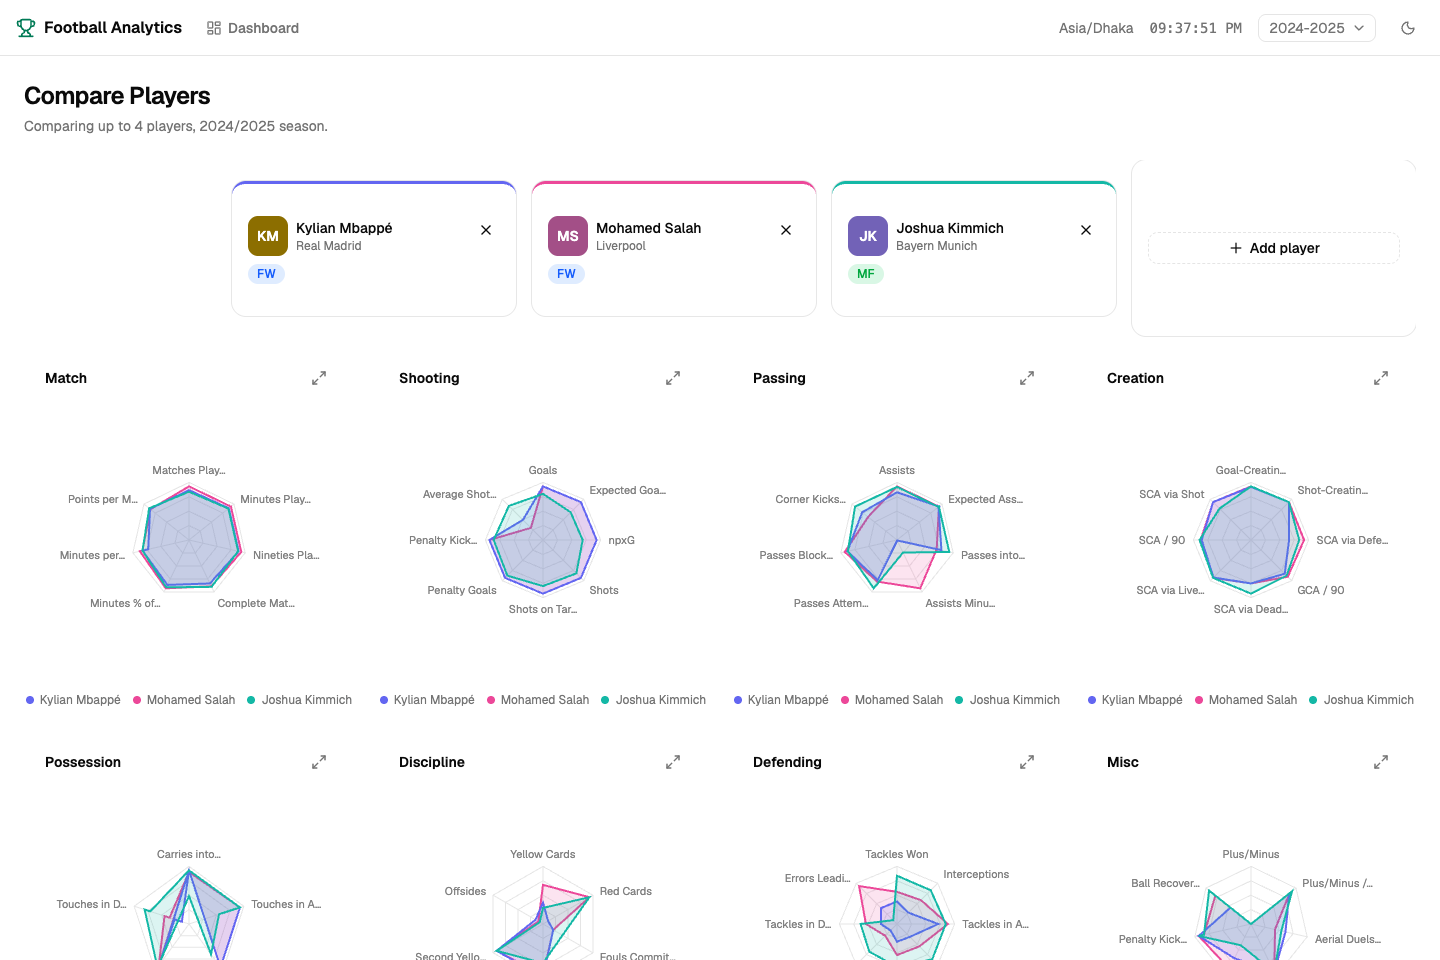
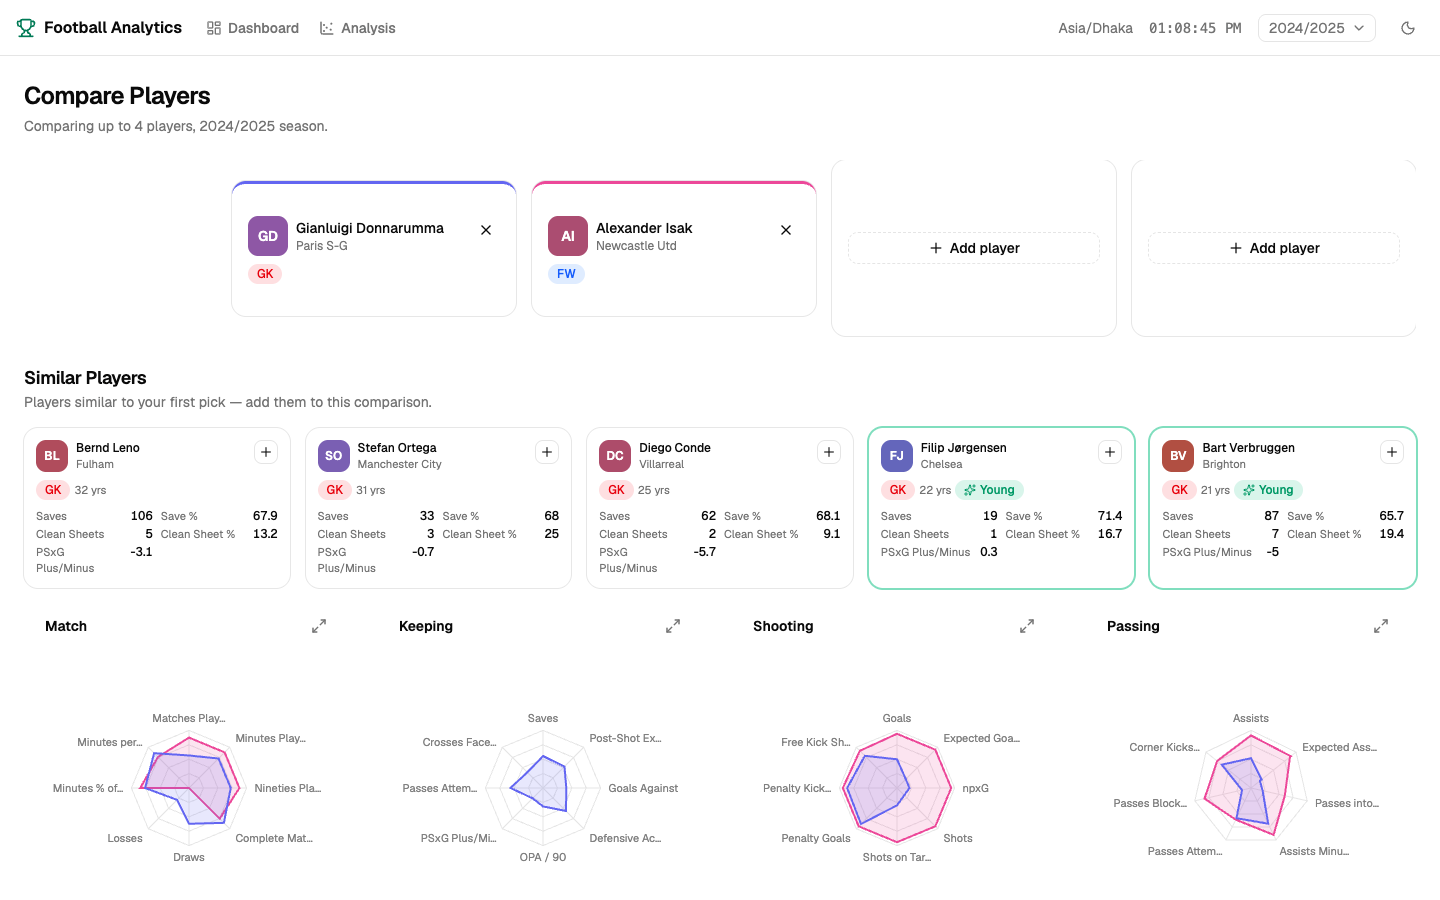
feat: update README with new features including similar players and young talents; enhance screenshot descriptions

diff --git a/README.md b/README.md
@@ -2,8 +2,9 @@
 
 A multi-season (2024-25 and 2025-26) football/soccer player statistics
 explorer — browse teams, players, and countries across the top 5 European
-leagues, compare up to 4 players head-to-head with radar charts, drill into
-9 category leaderboards, explore role-based scatter charts on the Analysis
+leagues, compare up to 4 players head-to-head with radar charts, discover
+similar players and rising young talent on every profile, drill into 9
+category leaderboards, explore role-based scatter charts on the Analysis
 page, and look up every stat's meaning in a built-in glossary. Backend is
 FastAPI + Polars, frontend is React + TanStack Router/Query/Table + shadcn/ui.
 
@@ -13,10 +14,10 @@ FastAPI + Polars, frontend is React + TanStack Router/Query/Table + shadcn/ui.
 
 |                                                                                              |                                                                    |
 | --------------------------------------------------------------------------------------------- | -------------------------------------------------------------------- |
-| ![Dashboard](docs/screenshots/dashboard-1.png)                                               | ![Player detail — radar chart + League Percentile view (dark mode)](docs/screenshots/player-details.png) |
-| ![Compare Players — overlaid radar charts](docs/screenshots/compare.png)                     | ![Team detail](docs/screenshots/team-details.png)                  |
-| ![Leaderboards — index of all 9 categories](docs/screenshots/leaderboards-index.png)         | ![Keeping leaderboard — Per 90 Min view](docs/screenshots/leaderboard.png) |
-| ![Analysis — Top 25 role scatter charts (dark mode)](docs/screenshots/analysis.png)           |                                                                    |
+| ![Dashboard](docs/screenshots/dashboard-1.png)                                               | ![Player detail — radar chart plus a 3x2 grid of the player's own major-stats card and their closest/youngest comps (dark mode)](docs/screenshots/player-details.png) |
+| ![Compare Players — Match-first, position-significant category ordering, with a Similar Players add panel](docs/screenshots/compare.png) | ![Team detail](docs/screenshots/team-details.png)                  |
+| ![Leaderboards — Young Players (23 or under) toggle](docs/screenshots/leaderboards-index.png) | ![Shooting leaderboard — Young Players toggle with Age column](docs/screenshots/leaderboard.png) |
+| ![Analysis — Top 25 role scatter charts, Young Players toggle (dark mode)](docs/screenshots/analysis.png) | ![Stat glossary](docs/screenshots/glossary.png)                    |
 
 ## Features
 
@@ -37,11 +38,24 @@ FastAPI + Polars, frontend is React + TanStack Router/Query/Table + shadcn/ui.
   players), scoring 6-8 curated stats against every other player at that
   position, with a sample-size caption (e.g. "vs. 1,003 other FWs") and an
   expand-to-fullscreen view.
+- **Similar Players & Young Talents** — next to the radar chart, every player
+  detail page lays out a 3x2 grid of position-matched comps: the viewed
+  player's own major-stats card (their top 10 stats for their primary
+  position — Saves leads for keepers, Goals for forwards, and so on) plus the
+  5 closest matches by stat similarity, spanning any age and age-23-or-under
+  specifically (highlighted with a green ring and a "Young" badge rather than
+  a separate section). Each comp card has a one-click icon button through to
+  a head-to-head Compare with the viewed player.
 - **Compare Players** (`/compare`) — pick up to 4 players and see them
-  overlaid on the same radar charts (one per stat category: Match, Shooting,
-  Passing, Creation, Possession, Discipline, Defending, Misc), plus an
-  "Overall" table with Base Stat / League Percentile / Overall Percentile
-  tabs that highlights the better value in green for every stat.
+  overlaid on the same radar charts and an "Overall" table (Base Stat /
+  League Percentile / Overall Percentile tabs, highlighting the better value
+  in green for every stat), both ordered Match first followed by each
+  compared player's signature category — Keeping for a keeper, Shooting for a
+  forward, Defending for a defender, Passing for a midfielder — so the most
+  position-relevant stats surface before the rest. Arriving here from a
+  player's Similar Players card pre-fills both players and surfaces the rest
+  of that player's comps in a side panel with one-click "+" buttons to add
+  them, up to the 4-player cap.
 - **Base Stat / League Percentile / Overall Percentile views** — player
   detail and comparison pages can switch between raw stat values and a
   percentile rank against the rest of the league or the whole dataset,
@@ -58,14 +72,18 @@ FastAPI + Polars, frontend is React + TanStack Router/Query/Table + shadcn/ui.
   Possession, Creativity) with sortable, hideable columns via a shared
   `DataTable` component and a "Top 100" full-table view per category. A
   "Qualified (900+ min)" toggle filters out small-sample outliers on
-  rate-based categories like Keeping's Save% or Pass Accuracy's Cmp%.
+  rate-based categories like Keeping's Save% or Pass Accuracy's Cmp%, and a
+  "Young Players (23 or under)" toggle filters every category down to
+  emerging talent and adds an Age column for scouting at a glance.
 - **Analysis** (`/analysis`) — 6 role-based scatter charts (Forwards'
   finishing, Progressive & Assisting Midfielders, Passers, Defenders,
   Keepers) plotting the Top 25 players per role on two related stats (e.g.
   npxG vs. Goals) to separate volume from quality, with dashed
   average-reference lines splitting each chart into quadrants, a
-  position-colour-coded legend, and a competition filter (defaulting to
-  "Overall" across all leagues) next to the page title.
+  position-colour-coded legend, a competition filter (defaulting to
+  "Overall" across all leagues) next to the page title, and the same "Young
+  Players (23 or under)" toggle as Leaderboards, which also adds each
+  player's age to the hover tooltip.
 - **Advanced-stat highlighting** — expected-value metrics (xG, xAG, xA, GCA,
   SCA, PSxG, ...) are visually flagged wherever they appear, since they're
   only available for seasons whose source data includes them.

diff --git a/docs/screenshots/README.md b/docs/screenshots/README.md
@@ -7,13 +7,13 @@ edit needed.
 | Filename | Page |
 | --- | --- |
 | `dashboard-1.png` | Dashboard (`/`) — season/competition pickers, stat cards, 5-card leaderboard preview, team table. Light mode, first viewport only. |
-| `player-details.png` | Player detail (`/players/$playerId`) — profile header + position radar chart + stat cards, captured in League Percentile view to show the red-to-green percentile colouring. Dark mode, first viewport only. |
-| `compare.png` | Compare Players (`/compare`) — 3 players overlaid on the per-category radar charts. Light mode, first viewport only. |
+| `player-details.png` | Player detail (`/players/$playerId`) — profile header, position radar chart, and the 3x2 grid of the player's own major-stats card plus their Similar Players/Young Talents comps (green ring + badge on the young ones). Dark mode, first viewport only. |
+| `compare.png` | Compare Players (`/compare`) — a keeper + a forward, showing the Match-first/position-significant category ordering on the per-category radar grid, plus the Similar Players add panel. Light mode, first viewport only. |
 | `team-details.png` | Team detail (`/teams/$teamId`) — roster table with colour-coded position badges. Light mode, first viewport only. |
-| `leaderboards-index.png` | Leaderboards index (`/leaderboards`) — all 9 category cards. Light mode, first viewport only. |
-| `leaderboard.png` | A leaderboard detail page (`/leaderboards/keeping`), captured with the Per 90 Min toggle on. Light mode, first viewport only. |
-| `analysis.png` | Analysis (`/analysis`) — Top 25 role scatter charts (Forwards, Progressive/Assisting Midfielders, Passers). Dark mode, first viewport only. |
-| `glossary.png` | Stat glossary (`/glossary`) |
+| `leaderboards-index.png` | Leaderboards index (`/leaderboards`) — all 9 category cards, captured with the Young Players (23 or under) toggle on to show the Age column. Light mode, first viewport only. |
+| `leaderboard.png` | The Shooting leaderboard detail page (`/leaderboards/shooting`), captured with the Young Players toggle on. Light mode, first viewport only. |
+| `analysis.png` | Analysis (`/analysis`) — Top 25 role scatter charts (Forwards, Progressive/Assisting Midfielders, Passers), captured with the Young Players toggle on. Dark mode, first viewport only. |
+| `glossary.png` | Stat glossary (`/glossary`). Light mode, first viewport only. |
 
 Add more using the same `<page>-<detail>.png` pattern (e.g.
 `country-detail.png`, `leaderboard-passing.png`) and link them from the README
